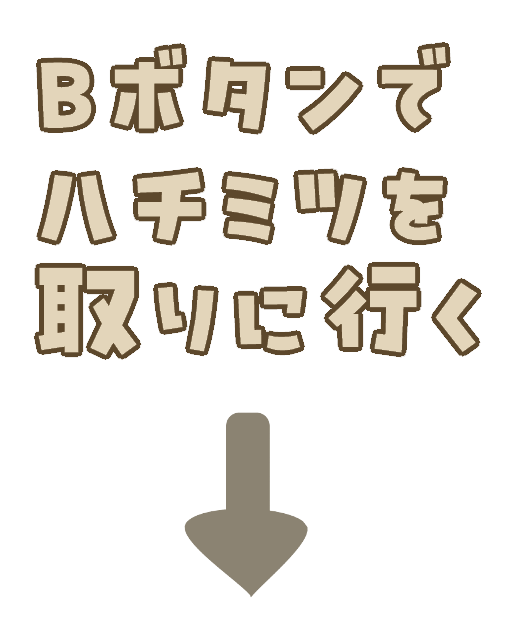
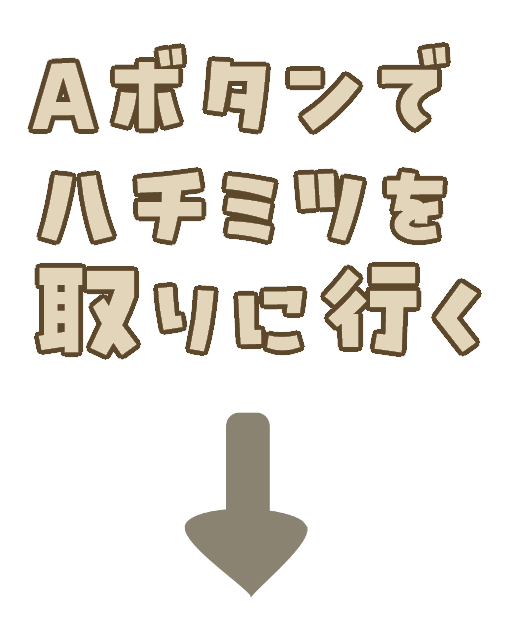
決定ボタン統一したよ

Changed region(s): [[0.0592, 0.0922, 0.2071, 0.2152]]

diff --git a/application/Object/Player/Player.cpp b/application/Object/Player/Player.cpp
@@ -141,7 +141,7 @@ void Player::Update(MapChipField *mapChipField, bool title) {
     ///	入力操作
     ///
 
-    HandleInput();
+    HandleInput(title);
 
     AnimaUpdate(title);
 
@@ -364,7 +364,7 @@ bool Player::IsGoalReached(bool title) {
     float goalBottom = goalPosition.y - MapChipField::kChipSize;
 
     // ループ外でフラグを初期化
-    bool reached = false;
+    reached = false;
 
     // 各角がゴール内にあるかを判定
     for (const auto &corner : corners) {
@@ -381,7 +381,7 @@ bool Player::IsGoalReached(bool title) {
 
         XINPUT_STATE joyState;
         if (input_->GetJoystickState(0, joyState)) {
-            if ((joyState.Gamepad.wButtons & XINPUT_GAMEPAD_B) && collisionMapInfo_.hittingGround_ && !isGravityReversed_) { // 重力反転時はゴールできないようにする
+            if ((joyState.Gamepad.wButtons & XINPUT_GAMEPAD_A) && collisionMapInfo_.hittingGround_ && !isGravityReversed_) { // 重力反転時はゴールできないようにする
                 SetClearAnima(title);
                 return true;
             }
@@ -544,7 +544,7 @@ void Player::UpdateScalingAnimation() {
     }
 }
 
-void Player::HandleInput() {
+void Player::HandleInput(bool title) {
 #pragma region ゲームパッド入力
     // 前フレームの押下状態を保存
     static bool wasPressedA = false;  // Aボタン
@@ -587,7 +587,7 @@ void Player::HandleInput() {
         bool isPressedA = joyState.Gamepad.wButtons & XINPUT_GAMEPAD_A;
 
         // Aボタンが押された瞬間のみ
-        if (isPressedA && !wasPressedA && CanJump()) {
+        if (isPressedA && !wasPressedA && CanJump() && !IsGoalReached(title)) {
             if (isGravityReversed_) { // 重力反転中
                 // 天井にいる場合のみ
                 if (collisionMapInfo_.hittingCeiling_) {

diff --git a/scene/SelectScene.cpp b/scene/SelectScene.cpp
@@ -184,7 +184,7 @@ void SelectScene::ChangeScene() {
     }
     XINPUT_STATE joyState;
     if (input_->GetJoystickState(0, joyState)) {
-        if (joyState.Gamepad.wButtons & XINPUT_GAMEPAD_A && !anyDecisionMade) {
+        if (joyState.Gamepad.wButtons & XINPUT_GAMEPAD_B && !anyDecisionMade) {
             sceneManager_->NextSceneReservation("TITLE");
         }
     }
@@ -305,7 +305,7 @@ void SelectScene::MapSelect() {
     // ゲームパッドのボタンA入力による決定処理
     XINPUT_STATE joyState;
     if (input_->GetJoystickState(0, joyState)) {
-        if (joyState.Gamepad.wButtons & XINPUT_GAMEPAD_B && !mapPrevs_[currentStage]->GetDecision()) {
+        if (joyState.Gamepad.wButtons & XINPUT_GAMEPAD_A && !mapPrevs_[currentStage]->GetDecision()) {
             mapPrevs_[currentStage]->SetDecision(true);
             audio_->PlayWave(desitionSE_, 0.2f);
         }

diff --git a/application/Object/Player/Player.h b/application/Object/Player/Player.h
@@ -172,6 +172,7 @@ class Player : public BaseObject {
     float targetScale_ = 0.45f;        // 最小時スケール
     const float kScaleDuration = 0.5f; // アニメーションにかける時間
     bool isChangedColor_ = true;
+    bool reached = false;
     void UpdateScalingAnimation();
 
     float prevRotY_; // プレイヤーの色反転ブロックを発動した際に現在の回転角を保存しておく
@@ -194,7 +195,7 @@ class Player : public BaseObject {
 
   private:
     // 入力操作
-    void HandleInput();
+    void HandleInput(bool title = false);
     // 全ての衝突判定とプレイヤーの押し戻し
     void CheckCollisionAndResolve(bool title = false);
 
